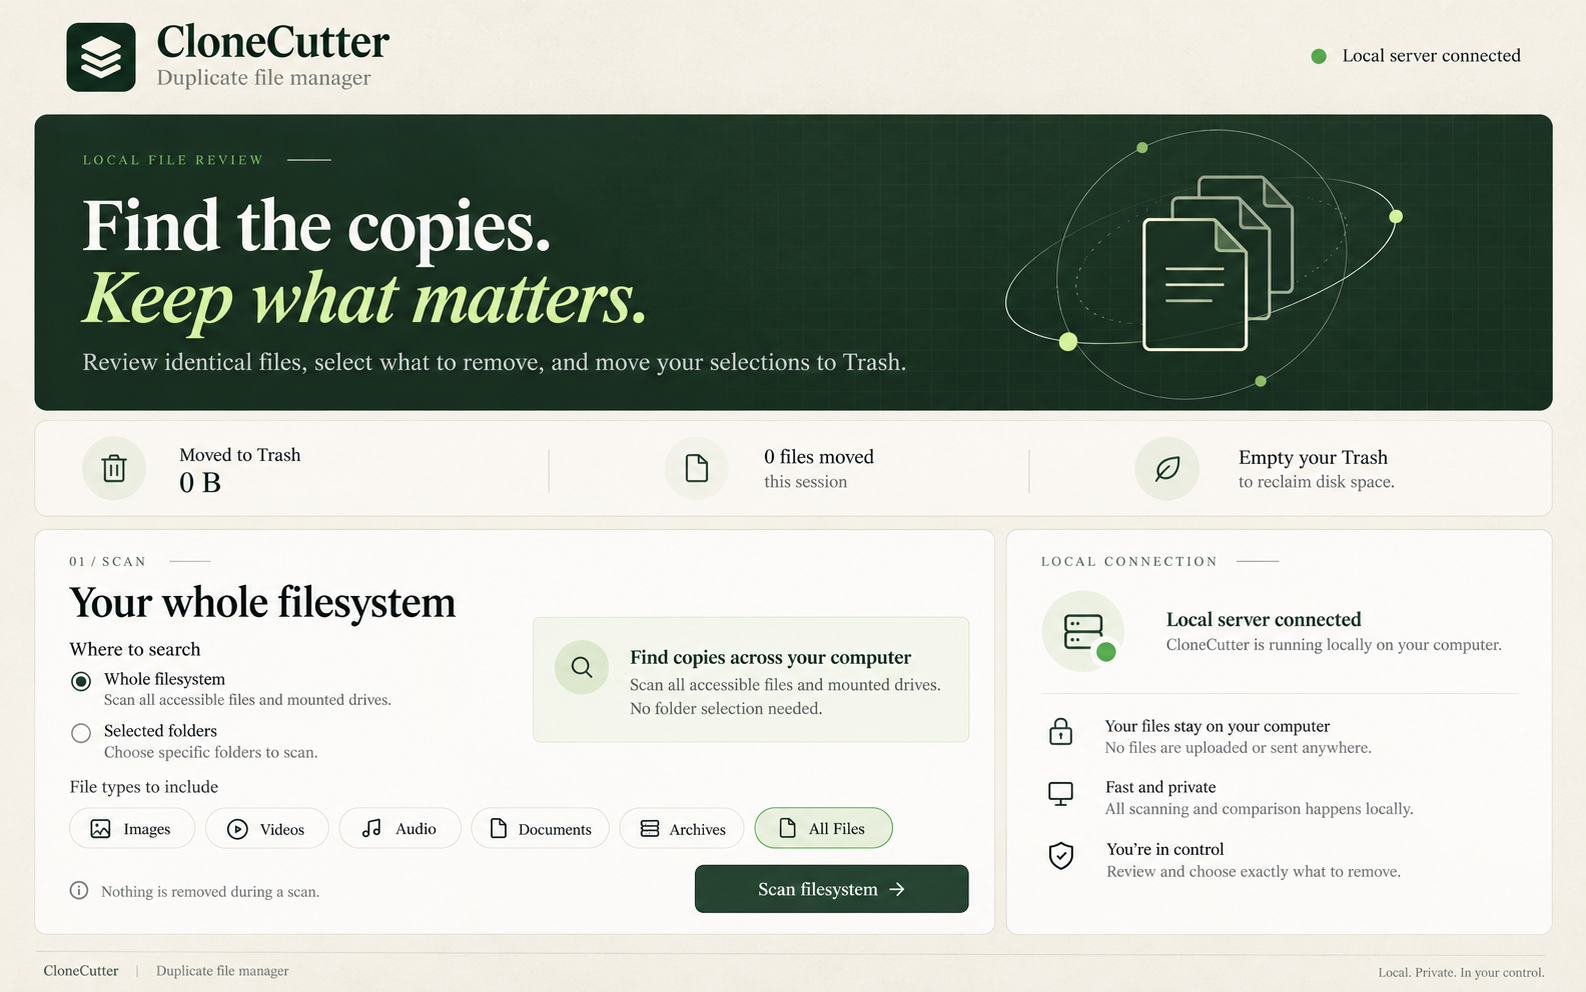
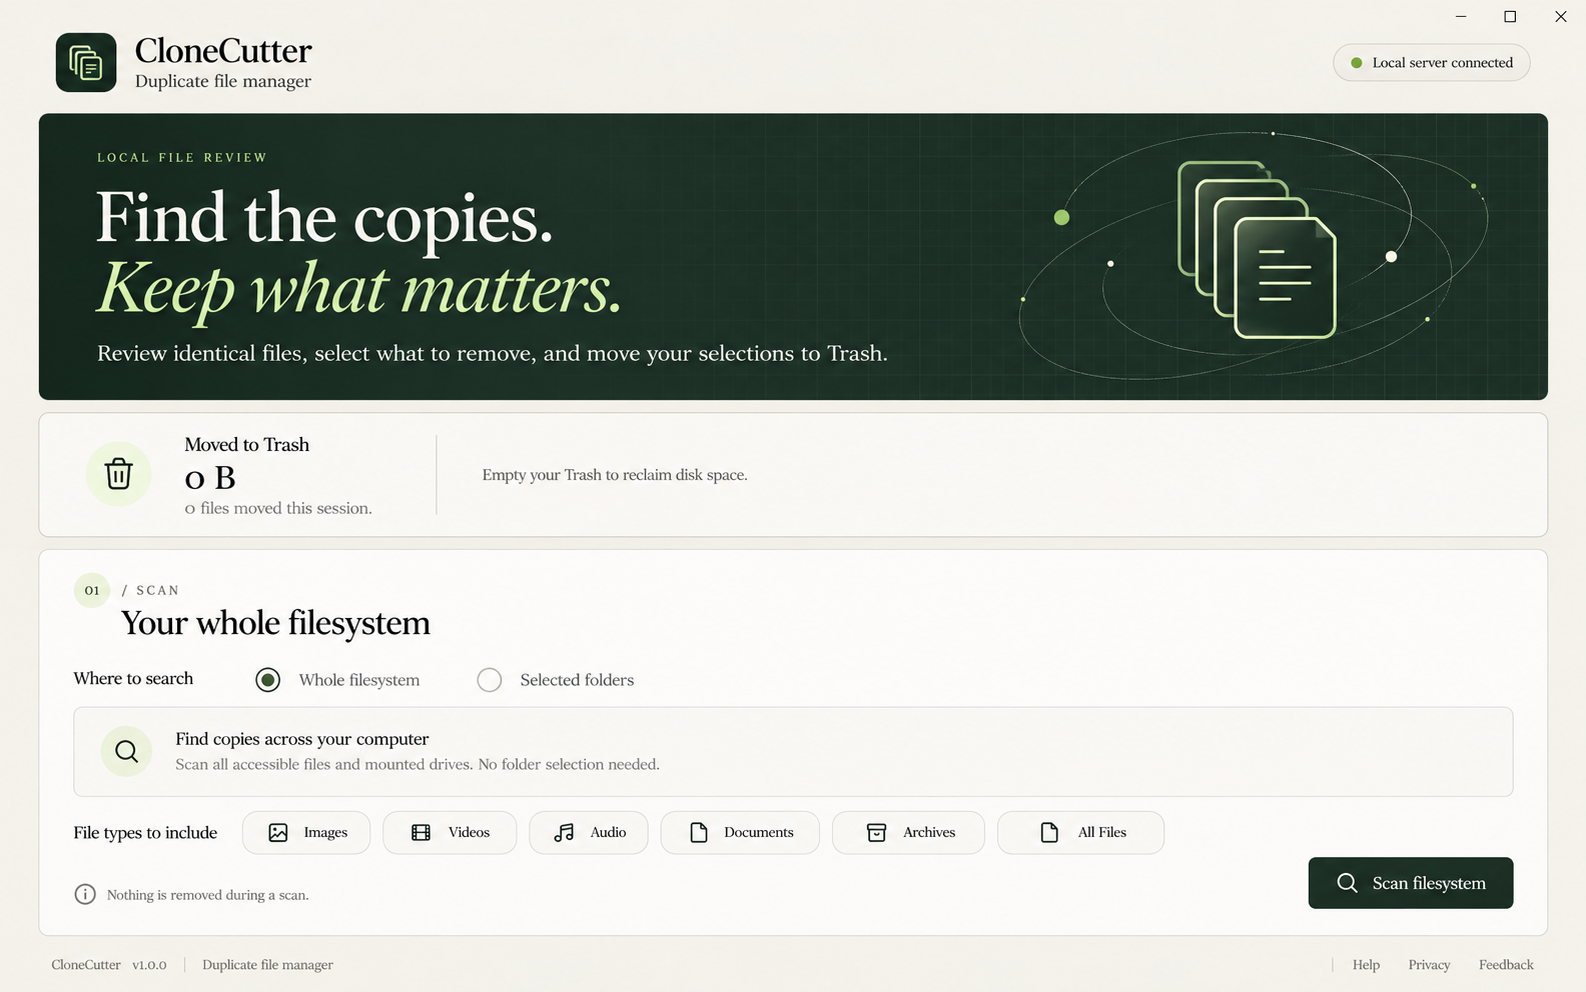
UI

diff --git a/project/style.css b/project/style.css
@@ -46,7 +46,6 @@ input { accent-color: var(--accent); }
 /* Folder setup, with a compact alternative alongside it. */
 .workspace-grid { display: grid; grid-template-columns: minmax(0, 1fr) 320px; align-items: start; gap: 20px; }
 .workspace-grid.is-working { display: block; }
-.is-working .server-panel { margin-bottom: 20px; }
 .upload-section, .server-panel, .results-section, .progress-section { background: var(--surface); border: 1px solid var(--border); border-radius: 16px; box-shadow: 0 3px 12px #26342103; }
 .upload-section { padding: 27px 28px 0; }
 .section-heading { display: flex; align-items: center; justify-content: space-between; gap: 12px; margin-bottom: 23px; }
@@ -279,7 +278,7 @@ button:focus-visible, input:focus-visible { outline-color: #697a51; }
 .brand-mark { width: 37px; height: 37px; border-radius: 10px; background: #24463a; color: #d8ed9a; }
 .brand h1 { font-size: 17px; font-weight: 650; letter-spacing: -.45px; }
 .brand h1 span { font-size: 10px; letter-spacing: .1px; color: #80847b; }
-.connection-status { gap: 9px; padding: 8px 11px; border: 1px solid var(--border); border-radius: 999px; background: #faf9f6; font-size: 11px; }
+.connection-status { gap: 9px; padding: 8px 11px; border: 1px solid var(--border); border-radius: 999px; color: #62695e; background: #faf9f6; font-size: 11px; text-align: left; }
 .status-dot { width: 7px; height: 7px; }
 .connected .status-dot, .server-status.ok .status-dot { background: #799348; box-shadow: 0 0 0 3px #edf1e7; }
 
@@ -336,7 +335,7 @@ button:focus-visible, input:focus-visible { outline-color: #697a51; }
 .cleared-files { color: #515950; font-size: 11px; }
 .cleared-note { padding-left: 19px; border-left: 1px solid var(--border); color: #797d74; font-size: 11px; }
 
-.workspace-grid { grid-template-columns: minmax(0, 1fr) 314px; gap: 17px; }
+.workspace-grid { grid-template-columns: minmax(0, 1fr); gap: 17px; }
 .upload-section, .server-panel, .results-section, .progress-section { border-color: #e4e2da; border-radius: 13px; box-shadow: 0 2px 10px #282a1808; }
 .upload-section { padding: 23px 23px 0; }
 .section-heading { margin-bottom: 18px; }
@@ -447,7 +446,7 @@ button:focus-visible, input:focus-visible { outline-color: #697a51; }
     .container { padding-inline: 28px; }
     .intro { min-height: 278px; padding: 40px 37px; }
     .hero-art { right: 5%; transform: translate(10%, -50%) scale(.85); }
-    .workspace-grid { grid-template-columns: minmax(0, 1fr) 276px; gap: 14px; }
+    .workspace-grid { grid-template-columns: minmax(0, 1fr); gap: 14px; }
     .upload-section { padding-inline: 19px; }
     .server-panel { padding-inline: 18px; }
 }
